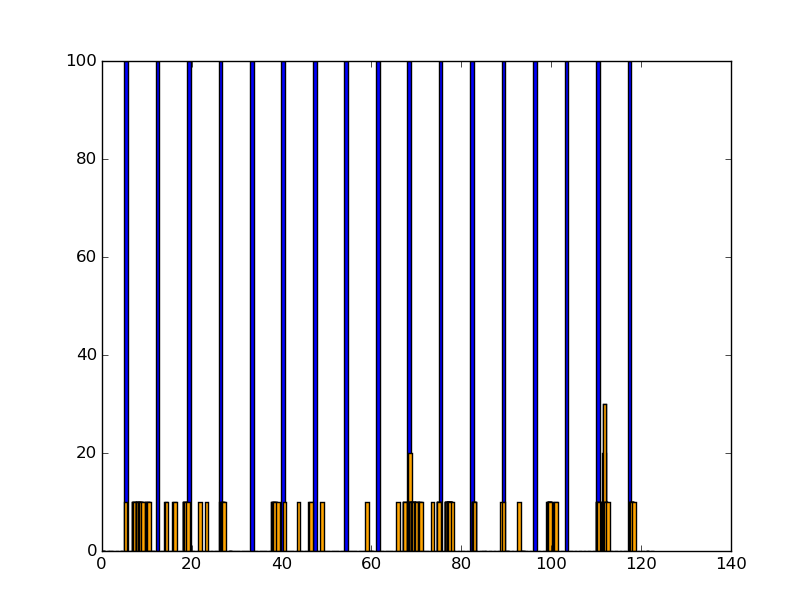
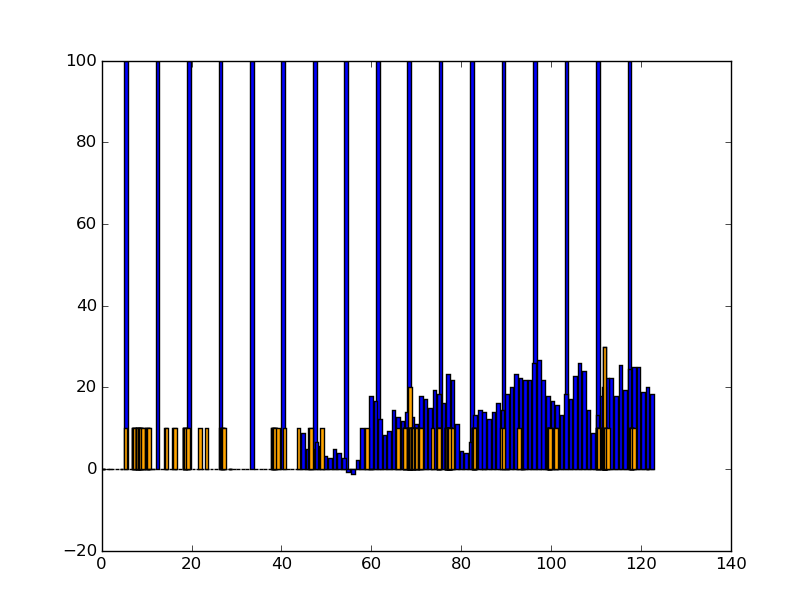
fetch GHCN-daily data via new modules, now plots Montague high temps 2015

diff --git a/rain_forcast.py b/rain_forcast.py
@@ -183,12 +183,21 @@ COOP:205567,MONTAGUE 4 NW MI US,20130529 00:30,158,10
 COOP:205567,MONTAGUE 4 NW MI US,20130601 00:00,158,-9999
 COOP:205567,MONTAGUE 4 NW MI US,20130601 00:15,-9999,0"""
 
+#per: ftp://ftp.ncdc.noaa.gov/pub/data/cdo/documentation/PRECIP_15_documentation.doc
+"""
+QPCP: The amount of precipitation recorded at the station for the 15 minute period ending at the time specified for DATE above given in tenths or hundredths of inches depending on the value given in the Units element (see definition for Units below). Prior to January 1996 QPCP was the only observational element in this data set. The values 9999 or 99999 means the data value is missing. The maximum number of characters for this field is 8. This element is selectable when using the Climate Data Online interface for creating data output file.
+
+QGAG: The volume of precipitation (calculated by weight) accumulated in measuring bucket as recorded at the station for the 15 minute period ending at the time specified for DATE above given in tenths or hundredths of inches depending on the value given in the Units element (see definition for Units below). This observational element was added with the January 1996 data. QGAG indicates that quarter-hour Fischer-Porter gage values are used. The values 9999 or 99999 means the data value is missing. The maximum number of characters for this field is 8. This element is selectable when using the Climate Data Online interface for creating data output file.
+
+"""
+
 from dateutil.parser import parse
 
 import pandas as pd
 import numpy as np
 from datetime import timedelta
 from pylab import plot, bar, show
+import daily_json_to_dict
 
 def add_bars( list_x_index, list_bar_vals, outline=False, color=None, size=1):
     # function to add a set of bars to our pylab plot
@@ -242,16 +251,23 @@ def index_dates( list_of_rain_dict, date_start, date_xend, scale=1):
         distance = (date - date_start) / timedelta_distance
         list_output.append( distance*scale)
     return list_output
-    
+
 
 if __name__ == "__main__":
-    # Add a black outline for each Saturday in 2016
+    # Add a black outline for each Saturday in 2016 from feb to June
     date_start = parse('2016-feb-1')
     date_xend = parse('2016-june-2')
     x_dates = pd.date_range(date_start, date_xend)
     saturdays_2016 = tuple(find_sat(date) for date in x_dates)
     ind = np.arange(len(x_dates)) #select N evenly spaced values
     add_bars( ind, saturdays_2016, outline=True, color='black')
+    
+    list_climate_daily = daily_json_to_dict.get_daily_climate_list( daily_json_to_dict.list_json_response)
+    # index & add bars for max daily temp (degC) 2015
+    scale = ind.max()
+    ind_2015_max_degc = index_dates(list_climate_daily, parse('2015-feb-1'), parse('2015-june-2'), scale)
+    max_degc_2015 = [ x['TMAX_C'] for x in list_climate_daily]
+    add_bars( ind_2015_max_degc, max_degc_2015, color='blue')
 
     list_2013_rain_dict = csv.DictReader(str_zip49437_15min_precip.splitlines())
     #2013 precipitation, 15min resolution

diff --git a/daily_json_to_dict.py b/daily_json_to_dict.py
@@ -1,0 +1,46 @@
+import api_info
+from dateutil.parser import parse
+import requests
+import json
+import pandas as pd
+
+#obtain daily Global Historical Climatology Network data
+token = {'Token': api_info.key }
+url = "http://www.ncdc.noaa.gov/cdo-web/api/v2/data?\
+datasetid=GHCND&stationid=GHCND:USC00205567\
+&startdate=2015-03-17&enddate=2015-06-02\
+&limit=1000"
+file_cache = 'daily_json_mamj.json'
+try:
+  cache = open( file_cache)
+  list_json_response = json.load( cache)
+except FileNotFoundError:
+  list_json_response = requests.get( url, headers=token).json().get('results')
+  json.dump( list_json_response, open( file_cache, 'w'))
+
+def get_daily_climate_list( list_daily_climate):
+    """
+
+    >>> l = [{'date':'2013-01-01T00:00:00','datatype':'TMAX','value':25}\
+            ,{'date':'2013-01-01T00:00:00','datatype':'SNWD','value':175}]
+    >>> out = get_daily_climate_list( l)
+    >>> from pprint import pprint
+    >>> pprint( out)
+    [{'DATE': datetime.datetime(2013, 1, 1, 0, 0), 'SNWD_MM': 175, 'TMAX_C': 2.5}]
+    """
+    list_one_row_per_day = []
+    df_by_date = pd.DataFrame(list_daily_climate).groupby('date')
+    for str_group in df_by_date.groups.keys():
+        # build dict - add date
+        dict_day = {'DATE': parse(str_group) }
+        # extract TMAX 
+        df_day = df_by_date.get_group( str_group)
+        tmax_tenth_degC = df_day[ df_day.datatype == 'TMAX'].value
+        dict_day['TMAX_C'] = int(tmax_tenth_degC) / 10
+        # extract snow depth in mm
+        dict_day['SNWD_MM'] = 0
+        if 'SNWD' in df_day.datatype.values:
+            dict_day['SNWD_MM'] = int(df_day[ df_day.datatype == 'SNWD'].value)
+        # add dict to list
+        list_one_row_per_day.append( dict_day)
+    return list_one_row_per_day

diff --git a/api_info.py b/api_info.py
@@ -1,0 +1,3 @@
+#simple module containing individual NCIE API information
+
+key = "MY_API_TOKEN"

diff --git a/doc/notes.md b/doc/notes.md
@@ -1,0 +1,124 @@
+# Past Weather
+http://w2.weather.gov/climate/index.php?wfo=grr
+
+# Muskegon Climate
+http://www.usclimatedata.com/climate/muskegon/michigan/united-states/usmi0584/2013/4
+
+# Temps reach highs of 60
+|year|date  | next |
+|----|------|------|
+|2013|6-apr |15-apr|
+|2014|31-mar| 7-apr| 
+|2015|16-mar| 1-apr|
+
+# Last snow (depth >0)
+|year|date  | next |
+|----|------|------|
+|2013|22-mar|  n/a |
+|2014|29-mar|15-apr|
+|2015|17-mar|  n/a |
+
+
+# 2016 Climate model
+http://www.cpc.ncep.noaa.gov/products/predictions/long_range/fxus05.html
+ - NOVEMBER-DECEMBER-JANUARY (NDJ)
+
+http://www.cpc.ncep.noaa.gov/products/predictions/long_range/seasonal.php?lead=5
+ - MARCH-APRIL-MAY (MAM)
+
+THE SEASONAL OUTLOOKS FROM NDJ 2015 THROUGH MAM 2016 RELY PRIMARILY ON THE 
+TYPICAL CIRCULATION RESPONSE TO EL NINO CONDITIONS AND THE ASSOCIATED 
+TEMPERATURE AND PRECIPITATION IMPACTS AS DETERMINED BY REGRESSION-BASED 
+STATISTICAL MODELS AS WELL AS EL NINO COMPOSITES. THE NORTH AMERICAN 
+MULTI-MODEL ENSEMBLE (NMME) AND THE INTERNATIONAL MULTI-MODEL ENSEMBLE (IMME), 
+WHICH INCLUDE THE NCEP CLIMATE FORECAST SYSTEM (CFS), PLAYED A LARGE ROLE AS 
+WELL. OUTLOOKS FOR MJJ 2016 THROUGH ASO 2016 RELY PRIMARILY ON THE CPC 
+CONSOLIDATION FORECAST THAT COMBINES THE SMLR, CCA AND OCN STATISTICAL MODELS 
+WITH THE CFS DYNAMICAL MODEL IN SEASONS FOR WHICH IT IS AVAILABLE. THE 
+EXPECTATION IS FOR ENSO NEUTRAL CONDITIONS DURING THIS PERIOD. BASED ON THE 
+BEHAVIOR OF SST ANOMALIES AFTER SEVERAL PAST STRONG EL NINO EVENTS AND THE CPC 
+CONSOLIDATION NINO3.4 SST FORECAST, POTENTIAL LA NINA CONDITIONS WERE 
+CONSIDERED BEGINNING IN SON 2016 THROUGH NDJ 2016-2017. 
+ 
+PROGNOSTIC DISCUSSION OF OUTLOOKS - NDJ 2015 TO NDJ 2016 
+ 
+TEMPERATURE 
+ 
+THE TEMPERATURE OUTLOOKS FROM NDJ 2015-16 THROUGH MAM 2016 WERE ONLY SLIGHTLY 
+CHANGED FROM THE PREVIOUS SET OF OUTLOOKS RELEASED IN MID-SEPTEMBER. FOR NDJ 
+2015-16, THERE ARE ENHANCED ODDS FOR ABOVE NORMAL TEMPERATURES FOR ALASKA, THE 
+FAR WEST AND ALONG THE NORTHERN TIER OF THE CONUS. THE GREATEST PROBABILITIES 
+ARE FOR THE ALASKA PANHANDLE AND IN THE CONTIGUOUS U.S. ALONG THE WEST COAST 
+AND NORTHERN TIER OF THE CONUS FROM THE PACIFIC NORTHWEST TO THE GREAT LAKES. 
+BELOW NORMAL TEMPERATURES ARE FAVORED FOR A REGION THAT INCLUDES PARTS OF THE 
+SOUTHWEST AND SOUTHERN PLAINS. 
+ 
+THROUGH THE WINTER AND INTO SPRING 2016, ABOVE NORMAL TEMPERATURES REMAIN 
+FAVORED FOR MUCH OF THE NORTHERN HALF OF THE CONUS WHILE THE COVERAGE FOR 
+ELEVATED ODDS OF BELOW NORMAL TEMPERATURES EXPANDS EASTWARD TO INCLUDE THE 
+SOUTHEAST. FORECAST COVERAGE MAXIMIZES IN JFM AND FMA 2016 WHEN EL NINO IMPACTS 
+TYPICALLY ARE THE GREATEST. THE FORECAST EVOLUTION IS BASED ON TOOLS ASSOCIATED 
+WITH THE EL NINO TELECONNECTION, DYNAMICAL MODEL GUIDANCE AND ABOVE NORMAL 
+PACIFIC OCEAN SSTS, FOR AREAS ALONG THE WEST COAST. CONSIDERATIONS OF A STRONG 
+EL NINO EVENT RESULT IN A SLIGHT SHIFT SOUTHWARD OF FAVORED ABOVE NORMAL 
+TEMPERATURES FOR SOME AREAS OF THE OHIO VALLEY AND MID-ATLANTIC AND A REDUCTION 
+IN COVERAGE AND PROBABILITIES FOR BELOW NORMAL TEMPERATURES IN PARTS OF THE 
+SOUTHEAST IN DJF 2015-16 AND JFM AND FMA 2016. 
+ 
+THE GREATEST CHALLENGE OF THE FORECAST IS THE EXTENT OF COLD AIR INTRUSIONS 
+INTO THE MID-ATLANTIC AND SOUTHEAST A MIDST A STRONG EL NINO. FORECAST TOOLS 
+DIVERGE IN THESE AREAS DURING THE WINTER MONTHS. THE CFS INDICATES EL NINO IS 
+BY FAR THE DOMINANT PLAYER WITH A WARM FORECAST ACROSS THE MAJORITY OF THE 
+CONUS. ON THE OTHER HAND, SOME STATISTICAL FORECAST TOOLS SUCH AS THE CA, CCA 
+AND SMLR HINT AT A COLDER FORECAST FOR THE SOUTHEAST WHERE PREDICTORS ARE 
+TAPPING INTO CONTINUED WARM NORTH PACIFIC SSTS. STRONG EL NINO CONDITIONS, AND 
+THE ASSOCIATED CIRCULATION, HOWEVER, COULD VERY WELL MODIFY THIS STRUCTURE. THE 
+FORECAST IS A BALANCE BETWEEN ALL OF THESE FACTORS. 
+ 
+A TRANSITION TO ENSO NEUTRAL CONDITIONS IS FAVORED DURING LATE SPRING AND 
+SUMMER 2016 SO THE DRIVER OF THE OUTLOOK FROM MJJ THROUGH ASO 2016 IS THE CPC 
+CONSOLIDATION FORECAST AND FAVORS ENHANCED ODDS OF ABOVE NORMAL TEMPERATURES 
+FOR THE WESTERN CONUS AND PARTS OF ALASKA, THE SOUTHERN CONUS AND NORTHEAST AT 
+VARIOUS TIMES DURING THIS PERIOD. 
+ 
+A COMBINATION OF THE CPC CONSOLIDATION FORECAST AND THE POTENTIAL FOR THE 
+DEVELOPMENT OF LA NINA CONDITIONS ARE THE DRIVER FOR THE OUTLOOKS FROM SON 2015 
+THROUGH NDJ 2015-16. PROBABILITIES INDICATED ON THE FORECAST MAPS ARE ONLY 
+SLIGHTLY TILTED BASED ON LA NINA ACROSS SOME AREAS OF THE INTERIOR AND SOUTHERN 
+CONUS AT THE CURRENT TIME GIVEN THE FORECAST LEAD. A VERY HIGH PROBABILITY OF 
+ABOVE-NORMAL TEMPERATURES IS INDICATED FOR THE NORTH SLOPE OF ALASKA DURING THE 
+OND SEASON DUE TO ANOMALOUSLY OPEN SEA ICE DURING THAT TIME OF YEAR. 
+ 
+PRECIPITATION 
+ 
+THE NDJ 2015-16 PRECIPITATION OUTLOOK FAVORS ABOVE-MEDIAN PRECIPITATION FROM 
+PARTS OF CALIFORNIA ACROSS THE SOUTHERN TIER OF THE CONUS AND UP THE EASTERN 
+SEABOARD TO THE MID-ATLANTIC. BELOW MEDIAN PRECIPITATION IS MOST LIKELY FOR 
+PARTS OF THE PACIFIC NORTHWEST, NORTHERN ROCKIES AND HIGH PLAINS, AND GREAT 
+LAKES. BOTH THE NORTH AND SOUTH COASTS OF ALASKA ARE FAVORED TO SEE 
+ABOVE-MEDIAN PRECIPITATION OVER THE SEASON. ENHANCED CHANCES OF ABOVE-MEDIAN 
+PRECIPITATION FOR THE NORTHERN COAST OF ALASKA ARE RELATED TO THE ANOMALOUSLY 
+OPEN SEA ICE CONDITIONS. 
+ 
+AS WE PROGRESS THROUGH THE WINTER AND INTO THE SPRING OF 2016, THE ABOVE 
+HIGHLIGHTED PATTERNS ARE ADJUSTED SO THAT BOTH COVERAGE AND PROBABILITIES ARE 
+MAXIMIZED IN JFM 2016. PROBABILITIES PEAK AT GREATER THAN 70% FOR FLORIDA AND 
+GREATER THAN 60% FOR SOUTHERN CALIFORNIA AND ARIZONA. FOR BELOW MEDIAN 
+PRECIPITATION, ODDS INCREASE TO GREATER THAN 50% DURING THIS SEASON IN TWO 
+AREAS, THE NORTHERN ROCKIES AND GREAT LAKES. THE EL NINO TELECONNECTION BASED 
+ON COMPOSITES AND OTHER ASSOCIATED FORECAST TOOLS ALONG WITH THE NMME AND ITS 
+COMPONENTS ARE THE PRIMARY DRIVER OF THE OUTLOOK THROUGH MAM 2016. 
+ 
+CONSISTENT WITH A SOUTHWARD AND EASTWARD SHIFTED STORM TRACK DURING EL NINO AND 
+NMME DYNAMICAL MODEL GUIDANCE, BELOW MEDIAN PRECIPITATION IS HIGHLIGHTED FOR 
+CENTRAL MAINLAND ALASKA FROM DJF 2015-16 THROUGH MAM 2016. DECADAL TRENDS AS 
+DEPICTED IN SOME OF THE STATISTICAL FORECAST TOOLS IS THE DRIVER FOR THE SMALL 
+HIGHLIGHTED AREAS FROM MJJ THROUGH JAS 2016. 
+ 
+AT THE EXTENDED LEADS, THE POTENTIAL FOR LA NINA CONDITIONS ARE THE PRIMARY 
+BASIS FOR THE VERY SLIGHT TILT IN THE ODDS FOR BELOW MEDIAN PRECIPITATION FOR 
+SOME AREAS ALONG THE SOUTHERN TIER OF THE CONUS AND LATER THE SOUTH COAST OF 
+ALASKA AND FOR ABOVE MEDIAN PRECIPITATION FOR THE PACIFIC NORTHWEST FROM SON 
+2016 THROUGH NDJ 2016-17. 
+ 
+FORECASTER: JON GOTTSCHALCK 

diff --git a/doc/ncei_api.md b/doc/ncei_api.md
@@ -1,0 +1,44 @@
+# NCEI API
+http://www.ncdc.noaa.gov/cdo-web/webservices/v2#gettingStarted
+
+# Datasets
+```bash
+curl -H "Token: MYTOKEN1" http://www.ncdc.noaa.gov/cdo-web/api/v2/datasets
+```
+
+Datasetid GHCND (GLOBAL HISTORICAL CLIMATOLOGY NETWORK; Daily) appears best.
+
+JSON api output ought to be easier to use than:
+ http://www1.ncdc.noaa.gov/pub/data/ghcn/daily/readme.txt
+ ftp://ftp.ncdc.noaa.gov/pub/data/ghcn/daily
+
+# Stations
+FIPS code (XYABCD; XY-state, ABC-county)
+http://www.nws.noaa.gov/nwr/coverage/ccov.php?State=MI
+
+Muskegon: 26121
+
+## Climate Data Stations
+http://www.ncdc.noaa.gov/cdo-web/api/v2/stations?locationid=FIPS:26121&limit=1000
+
+Montague 4 NW; locationid: USC00205567
+
+```python
+>>> for row in r.json().get('results'):
+...   min = parse(row['mindate'])
+...   mi = parse(row['mindate'])
+...   ma = parse(row['maxdate'])
+...   targ = parse('2013-mar-17')
+...   if mi <= targ and ma >= targ:
+...     print(row)
+... 
+{'longitude': -86.3029, 'elevation': 187.5, 'name': 'NORTON SHORES 3.0 WNW, MI US', 'maxdate': '2015-08-19', 'mindate': '2010-05-01', 'id': 'GHCND:US1MIMG0012', 'datacoverage': 0.5934, 'elevationUnit': 'METERS', 'latitude': 43.1844}
+{'longitude': -86.2364, 'elevation': 189.3, 'name': 'MUSKEGON 3.5 SSE, MI US', 'maxdate': '2015-11-01', 'mindate': '2010-05-01', 'id': 'GHCND:US1MIMG0013', 'datacoverage': 0.7229, 'elevationUnit': 'METERS', 'latitude': 43.1791}
+{'longitude': -86.4175, 'elevation': 198.1, 'name': 'MONTAGUE 4 NW, MI US', 'maxdate': '2015-09-30', 'mindate': '1893-02-01', 'id': 'GHCND:USC00205567', 'datacoverage': 1, 'elevationUnit': 'METERS', 'latitude': 43.4614}
+{'longitude': -86.2037, 'elevation': 192.9, 'name': 'MUSKEGON 4 SE, MI US', 'maxdate': '2014-11-29', 'mindate': '2012-10-01', 'id': 'GHCND:USC00205713', 'datacoverage': 0.4233, 'elevationUnit': 'METERS', 'latitude': 43.1839}
+{'longitude': -86.23667, 'elevation': 190.5, 'name': 'MUSKEGON CO AIRPORT, MI US', 'maxdate': '2015-11-04', 'mindate': '1896-06-01', 'id': 'GHCND:USW00014840', 'datacoverage': 1, 'elevationUnit': 'METERS', 'latitude': 43.17111}
+```
+
+# Query
+
+http://www.ncdc.noaa.gov/cdo-web/api/v2/data?datasetid=GHCND&stationid=GHCND:USC00205567&startdate=2015-03-17&enddate=2015-06-02&limit=1000
